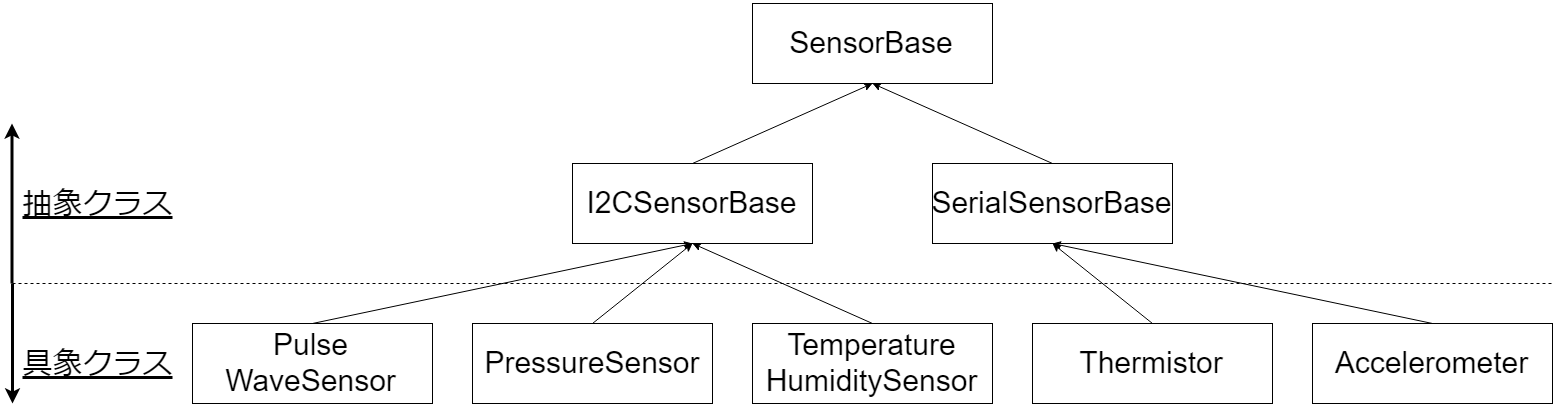
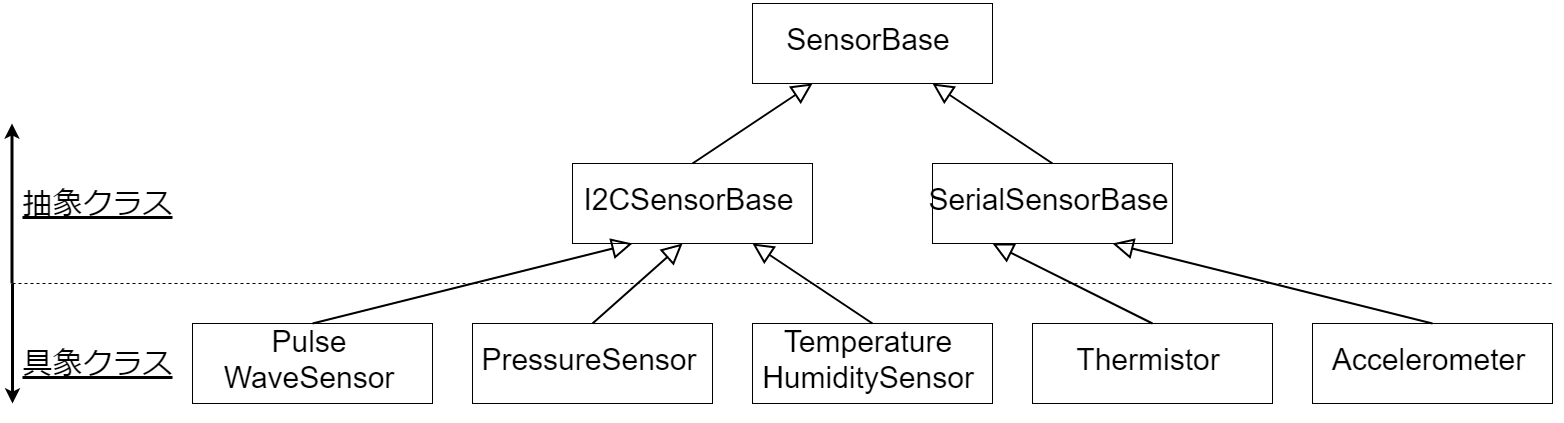
クラス図の改善

diff --git a/README.md b/README.md
@@ -12,14 +12,15 @@ Raspberry Pi 3B+で複数個のセンサーからセンシングをし、MQTTを
 1. Arduinoで読んでいるセンサーについては、Arduino側で値の処理などをしてからシリアル通信でラズパイに送っています。
 2. Arduino側には温湿度センサーがついていますが、読んでいません(プルアップ抵抗代わりに入れています)
 
-## 回路概要
+## 構成図
 
 ![image1](docs/images/image1.png)
 
 ## クラス図
-
+### センサーを表すクラス
 ![image2](docs/images/image2.png)
-
+### センサーを統括するクラスとセンサーを表すクラスの関係
+![image3](docs/images/image3.png)
 ---
 
 # 開発の方針
